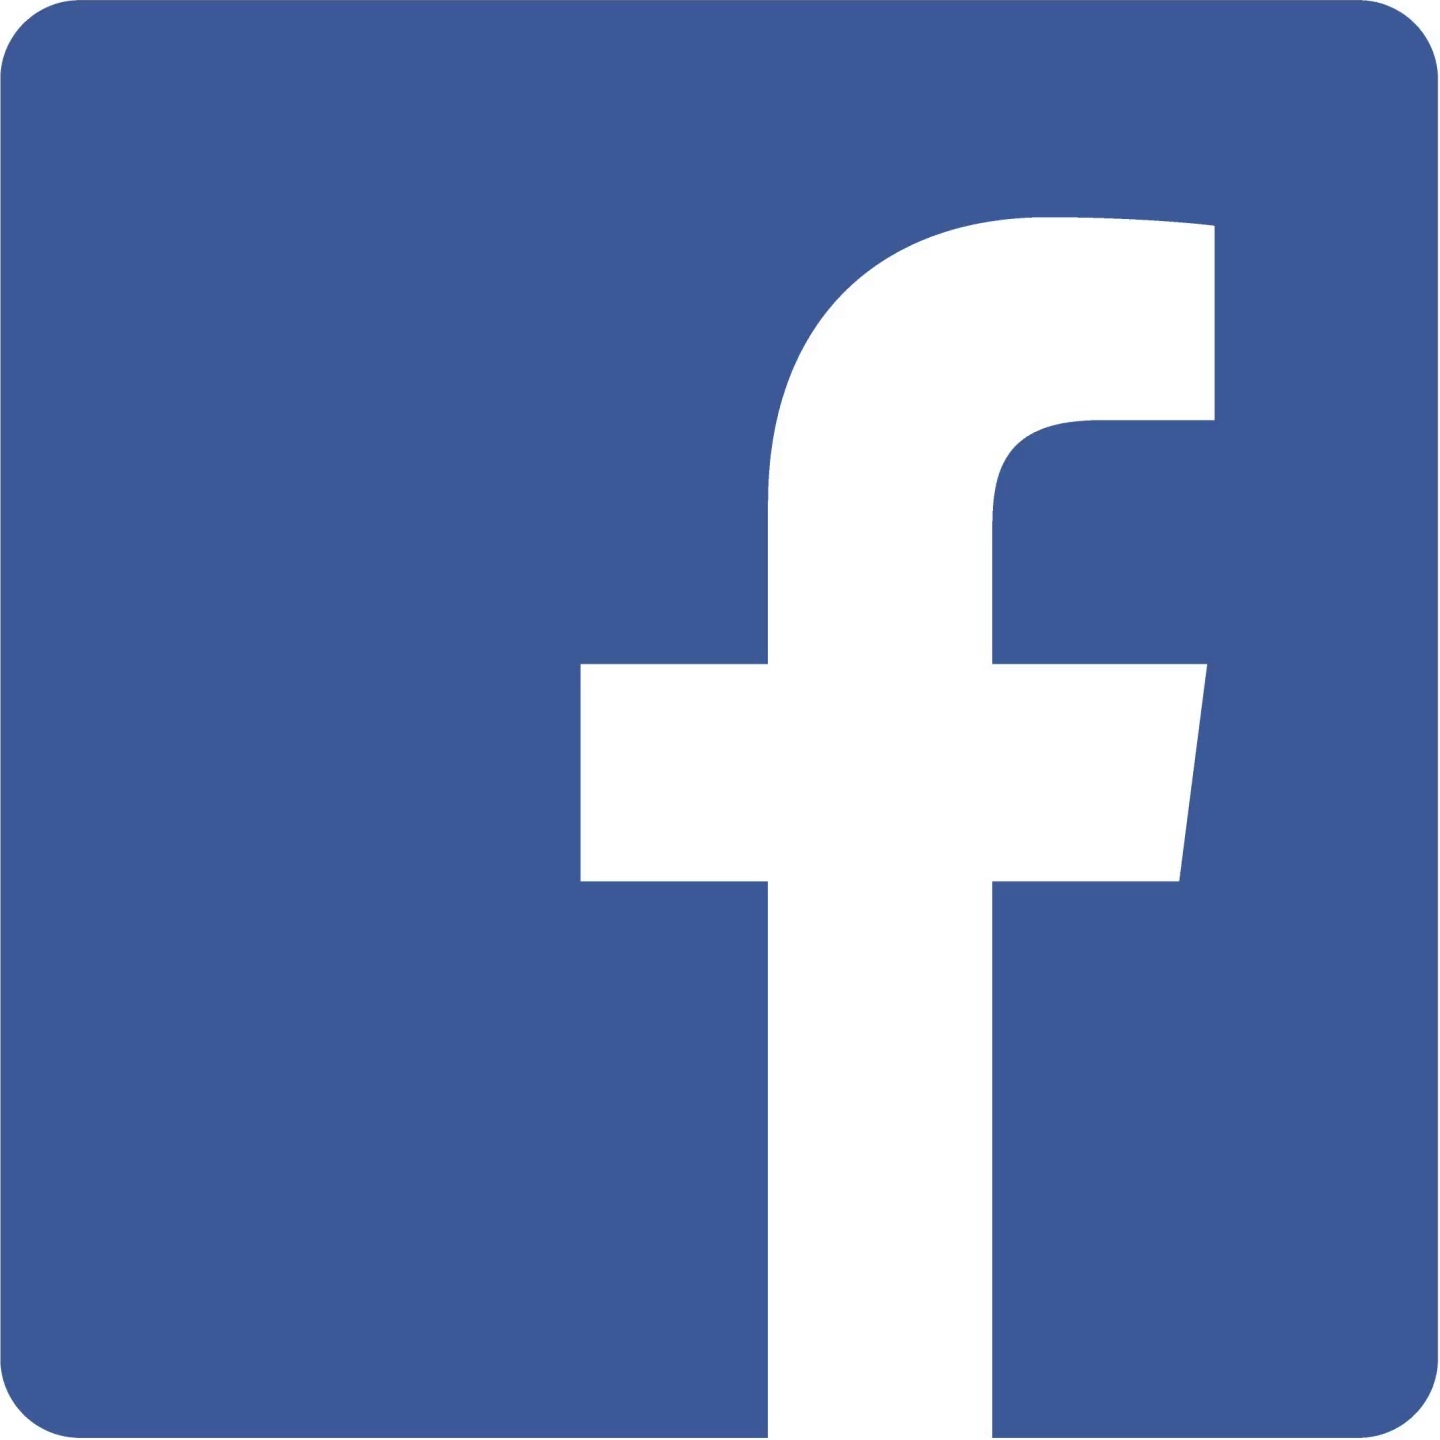
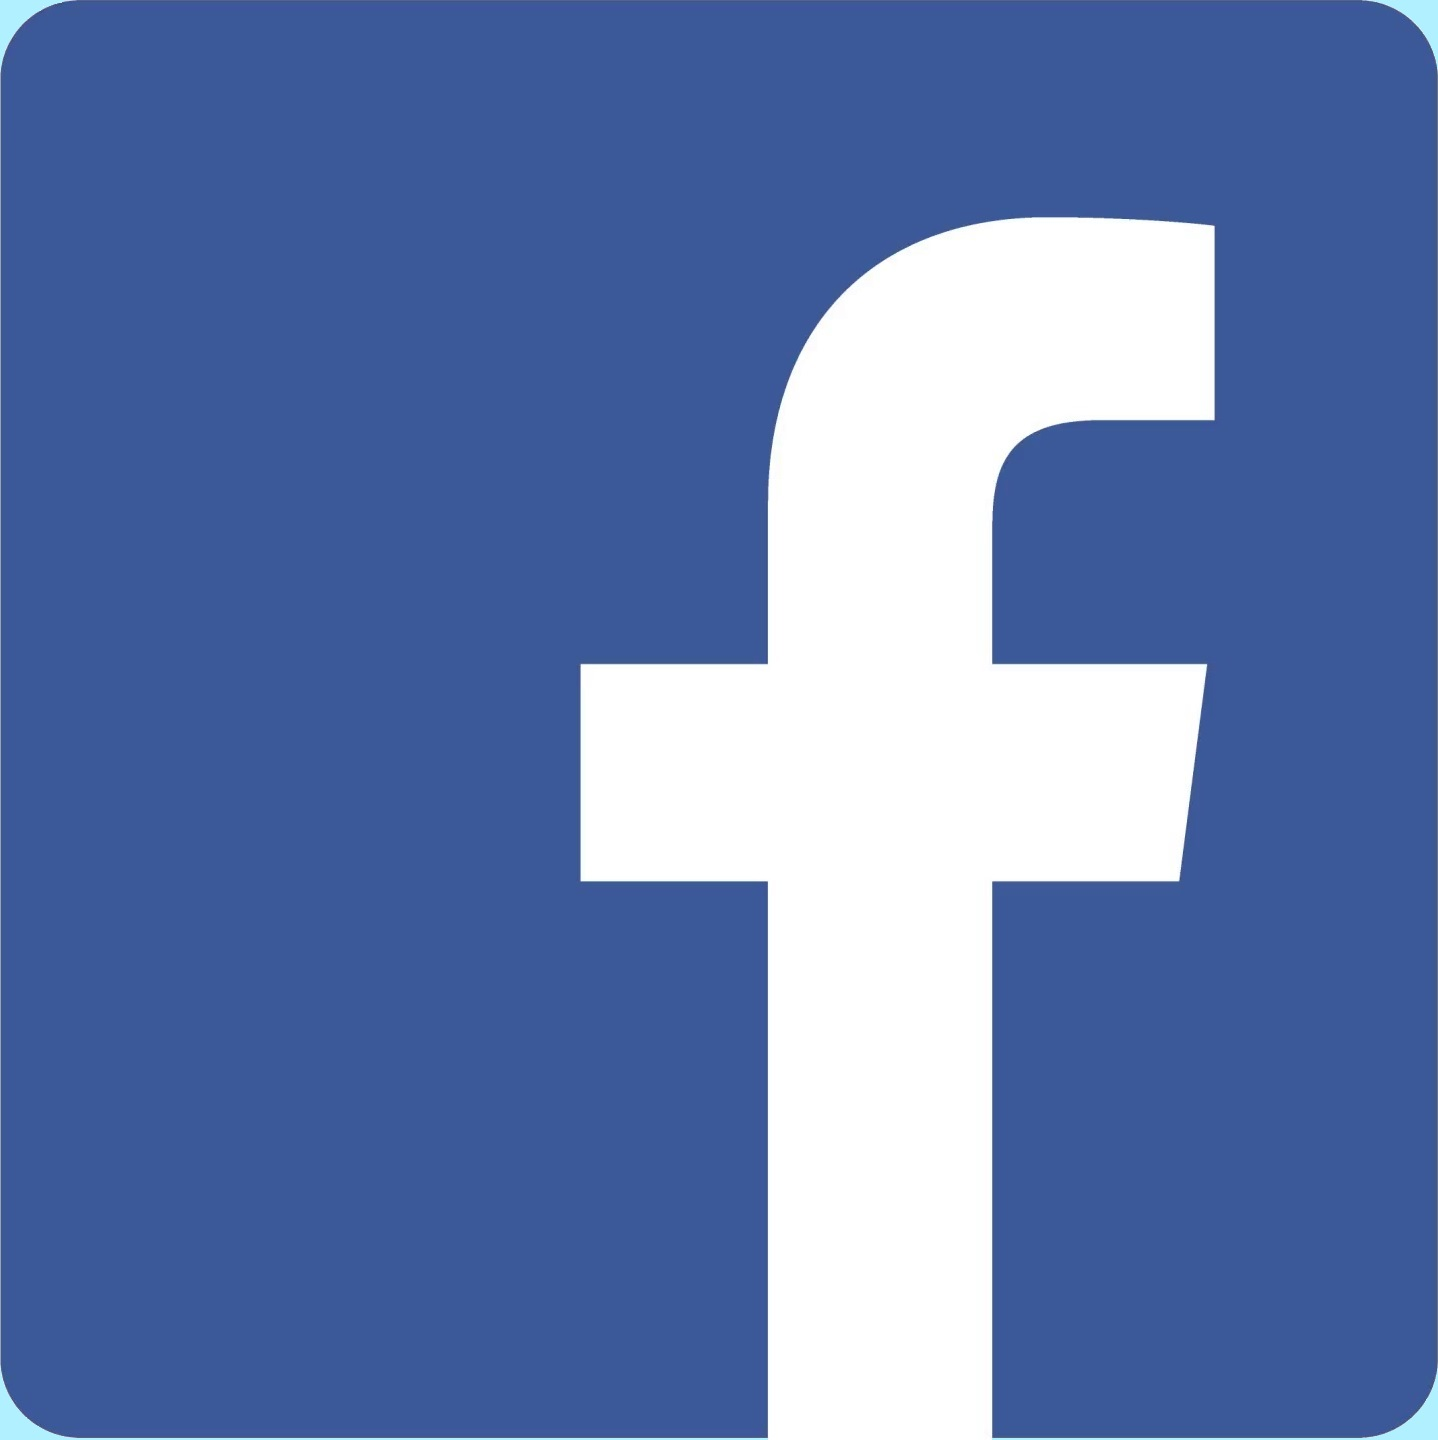
Nav-bar colouring

diff --git a/css/index-style.css b/css/index-style.css
@@ -10,7 +10,9 @@ width: 180px;
 
 .films {
 height: 150px;
-width: 170px;
+width: 160px;
+margin-top: 20px;
+margin-left: 20px;
 }
 
 .films a {
@@ -20,6 +22,8 @@ width: 170px;
 .about {
 height: 140px;
 width: 160px;
+margin-top: 20px;
+margin-right: 20px;
 }
 
 .about a {
@@ -29,19 +33,16 @@ width: 160px;
 ul {
   list-style-type: none;
   margin: 0;
-  padding-top: 30px;
-	padding-bottom: 20px;
-	padding-left: 30px;
-	padding-right: 30px;
+	padding: 0;
   overflow: visible !important;
 	position: relative;
-  background-color: white;
+  background-color: rgba(177, 240, 288, 1);
 	display: flex;
   align-items: stretch;
   justify-content: space-between;
   width: 100%;
 	z-index: 5000;
-	border-bottom: 2px solid rgb(255,228,196);
+	border-bottom: solid black 5px;
 }
 
 li {
@@ -61,7 +62,7 @@ li a {
 }
 
 li a:hover:not(.active) {
-  background-color: #111;
+  background-color: lightpink;
 }
 
 .active {
@@ -107,10 +108,6 @@ h1 {
 	font-family: "Impact", charcoal, sans-serif;
 }
 
-.h1 {
-	background: rgb(255,228,196);
-}
-
 h3 {
 	text-align: center;
 }
@@ -126,8 +123,11 @@ h3 {
 
 
 body {
-	 background-color: white;
-	font-family: 'Droid Sans', sans-serif;
+	 background-image: url("background2.jpg");
+	 background-repeat: repeat;
+	 background-size: 334px 240px;
+	 font-family: 'Droid Sans', sans-serif;
+	 margin: 0;
 }
 
 .container {
@@ -194,13 +194,14 @@ body {
 }
 
 .image2 {
-	width: 42px;
 	height: 42px;
+	width: 42px;
 	margin-left: auto;
 	margin-right: auto;
 	display: inline-block;
 	image-orientation: center;
 }
+
 
 .image2:hover {
 	transition: 0.6s ease;
@@ -214,4 +215,6 @@ body {
 
 .social-media {
 	text-align: center;
+	background-color: lightblue;
+	border-top: grey, solid, 10px;
 }

diff --git a/index.html b/index.html
@@ -54,15 +54,19 @@
 </div>
 
 <div class="social-media">
+	<br>
+	<h3>Follow us on our socials:</h3>
 	<a href="https://www.facebook.com/">
-		<img src="facebook-button.jpg" class="image2">
+		<img src="facebook-button.jpg" class="image2" id="facebook">
 	</a>
 	<a href="https://www.instagram.com/">
-		<img src="instagram-button.jpg" class="image2">
+		<img src="instagram-button.png" class="image2" id="instagram">
 	</a>
 	<a href="https://twitter.com/">
-		<img src="twitter-button.jpg" class="image2">
+		<img src="twitter-button.png" class="image2" id="twitter">
 	</a>
+	<br>
+	<br>
 </div>
 
 </body>
